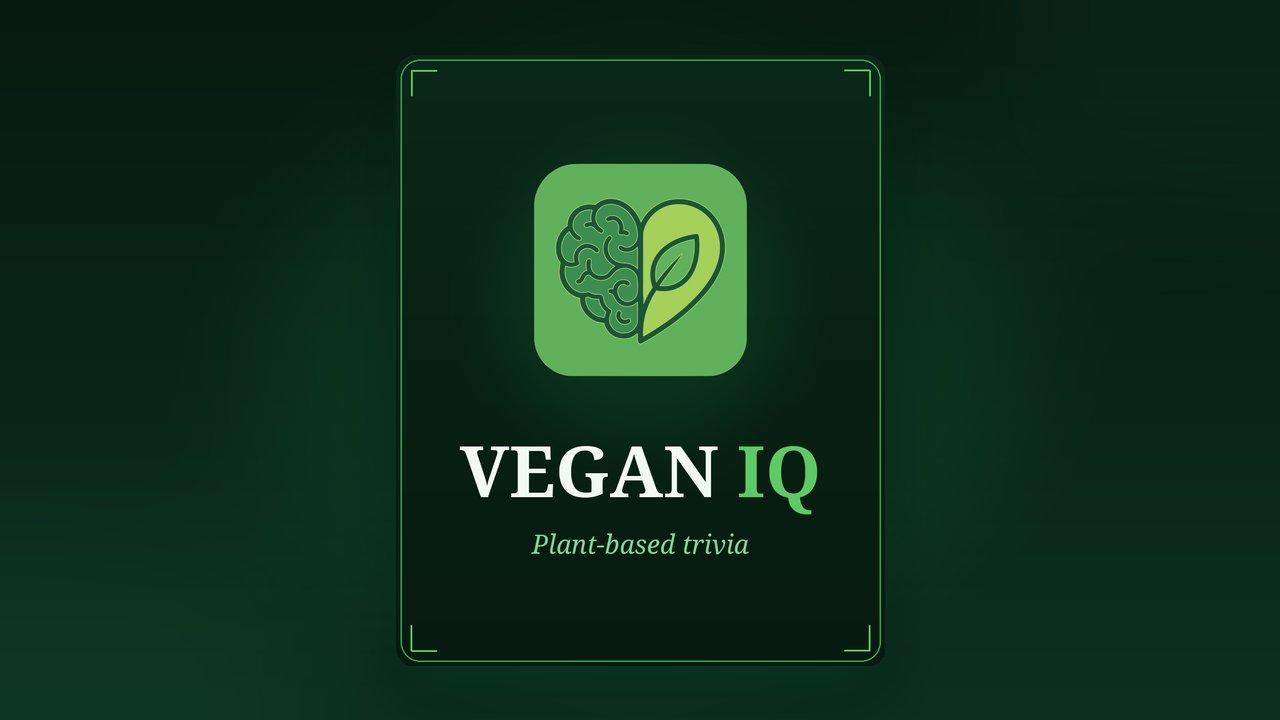
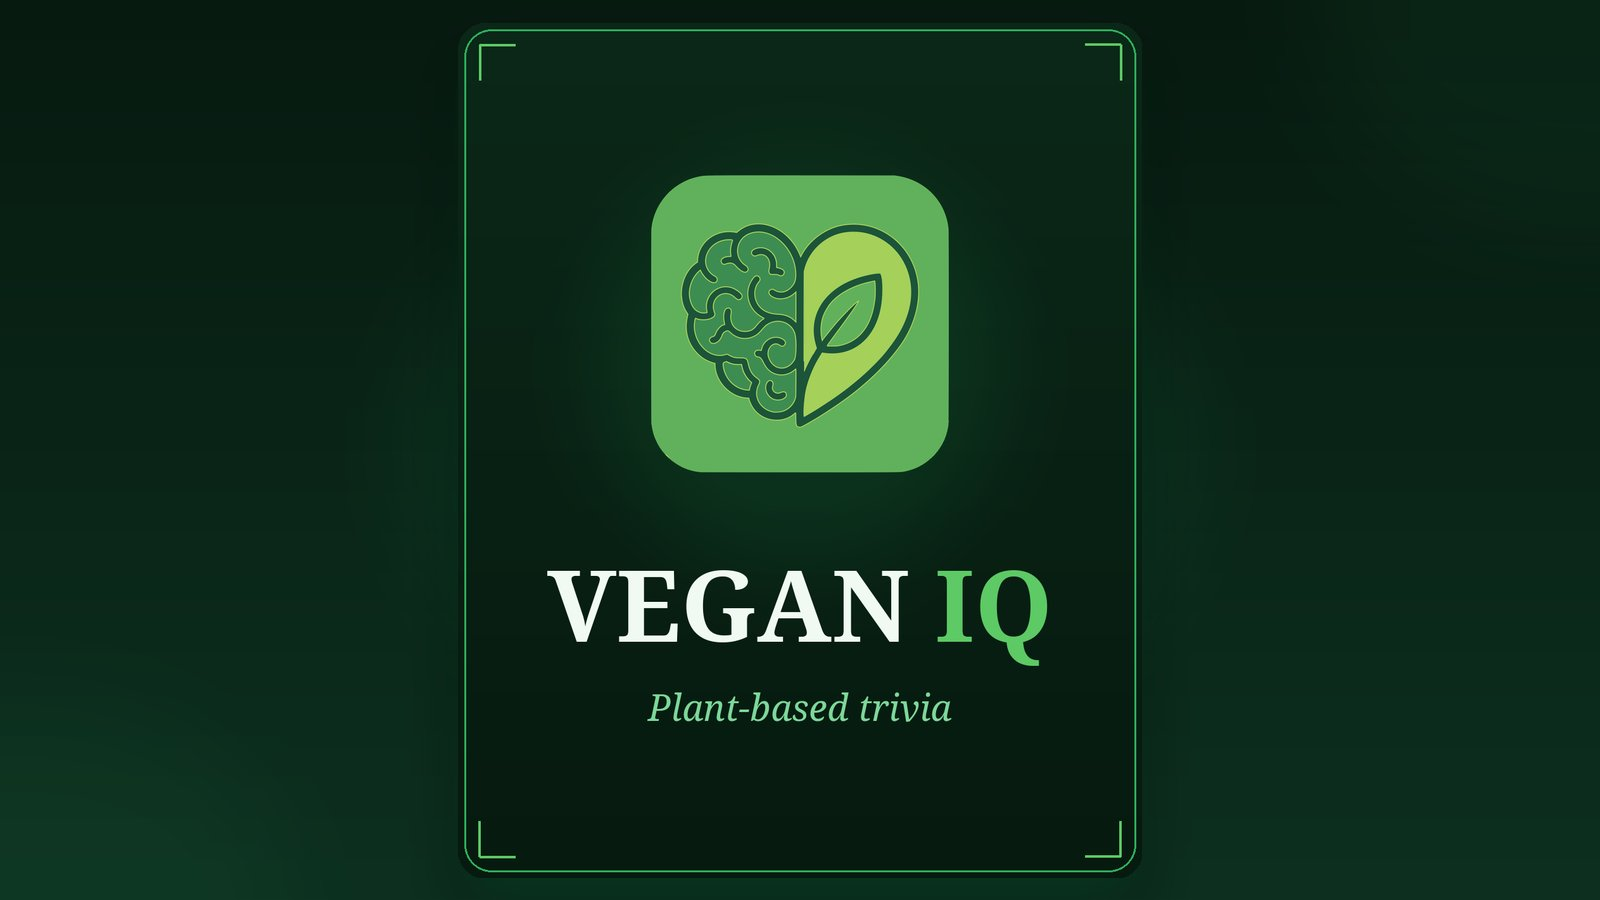
bento: 2x2 webshops layout + custom 1.2:1 reel crop + crisp vegan-iq re-render
New shape (drops Bauhaus): Webshops 2x2 feature / Smirk + Bloomword stacked right /
Barns 2x1 + Vegan IQ bottom. Grid gains md:row-span-2.

Webshops reel rebuilt at 1.2:1 (864x720) to match the 2x2 tile box with PER-SHOP crop
offsets (artisan's headline is left-anchored, coaching's box sits right of center, the
rest center) so no shop's hero text gets clipped by the cover fit.

Vegan IQ re-rendered at 1600x900 with the card at 95% height (text was landing on too
few yuv420p samples at 720p and read pixelated); webm 488KB, seam still 0.0000.

diff --git a/apps/web/src/components/portfolio/bento-grid.tsx b/apps/web/src/components/portfolio/bento-grid.tsx
@@ -34,12 +34,18 @@ const spanClass: Record<number, string> = {
   1: "md:col-span-1",
   2: "md:col-span-2",
 };
+const rowClass: Record<number, string> = {
+  1: "",
+  2: "md:row-span-2",
+};
 
 type Item = {
   name: string;
   tagline: string;
   color: keyof typeof titleColor;
   span: 1 | 2;
+  /** Grid row span (md+). 2 = a tall tile (e.g. the 2x2 Webshops feature). Default 1. */
+  rows?: 1 | 2;
   image: string;
   alt: string;
   href: string;
@@ -55,12 +61,13 @@ type Item = {
   vignette?: { webm: string; poster: string; webmDark?: string; posterDark?: string; mp4?: string; fit?: "contain" | "cover" };
 };
 
-// Six tiles, spans tiling the 3-column grid gap-free: (2,1) / (1,2) / (2,1) = three full rows.
-// Two live tiles: Webshops (the theming-morph reel, an opaque cover video: five completely
-// different storefronts from one platform) and Barns & Neutrons (transparent 3D vignette).
+// Five tiles over a 3x3 grid: Webshops is the 2x2 feature (the SQUARE 720x720 morph reel,
+// so the shops show real vertical), Smirk + Bloomword stack to its right, Barns (2x1) and
+// Vegan IQ close the bottom row. Auto-placement fills exactly: (r1-2,c1-2) / (r1,c3) /
+// (r2,c3) / (r3,c1-2) / (r3,c3).
 // Videos play on hover/focus on desktop and while on screen on no-hover (touch) devices.
 const items: Item[] = [
-  { name: "Webshops", tagline: "Custom storefronts we build and host. One platform, five completely different shops.", color: "emerald", span: 2, image: "/showcase/reels/webshops.jpg", alt: "Five differently themed demo storefronts built on the same platform", href: "/products/webshops", vignette: { webm: "/showcase/reels/webshops.webm", poster: "/showcase/reels/webshops.jpg", mp4: "/showcase/reels/webshops.mp4", fit: "cover" } },
+  { name: "Webshops", tagline: "Custom storefronts we build and host. One platform, five completely different shops.", color: "emerald", span: 2, rows: 2, image: "/showcase/reels/webshops.jpg", alt: "Five differently themed demo storefronts built on the same platform", href: "/products/webshops", vignette: { webm: "/showcase/reels/webshops.webm", poster: "/showcase/reels/webshops.jpg", mp4: "/showcase/reels/webshops.mp4", fit: "cover" } },
   { name: "Smirk Wallet", tagline: "Non-custodial browser wallet with social tipping.", color: "amber", span: 1, image: "/images/products/smirk-wallet.png", alt: "Smirk Wallet browser extension", href: "https://smirk.cash", external: true },
   // Transparent chroma-keyed vignette (the engine can't emit real alpha — BW_FLAT magenta key):
   // full-bloom tree at rest, hover retracts and regrows it. Palindrome loop, seam 0.0.
@@ -68,7 +75,6 @@ const items: Item[] = [
   // Single theme-independent asset: the INSET black silhouette stroke (sg_outline) sits ON the yellow letters, so one
   // baked alpha render reads on both light and dark tiles — no per-theme pair needed (a 3D->web pipeline win).
   { name: "Barns & Neutrons", tagline: "Cozy puzzle expedition across the real Table of Nuclides.", color: "amber", span: 2, image: "/images/products/barns-and-neutrons.svg", alt: "Barns & Neutrons, a game about the Table of Nuclides", href: "/products/barns-and-neutrons", vignette: { webm: "/showcase/vignettes/barns.webm", poster: "/showcase/vignettes/barns.png" } },
-  { name: "Bauhaus Echo", tagline: "Visual memory puzzle game.", color: "blue", span: 2, image: "/images/products/bauhaus-echo.png", alt: "Bauhaus Echo visual memory puzzle game", href: "/products/bauhaus-echo" },
   // Cover reel from the vegan-IQ social pipeline: logo panel at rest, card-flips to a real
   // quiz question (unanswered -> answered) on hover, flips back for a perfect loop seam.
   { name: "Vegan IQ", tagline: "Plant-based trivia game.", color: "green", span: 1, image: "/showcase/reels/vegan-iq.jpg", alt: "Vegan IQ plant-based trivia game", href: "/products/vegan-iq", vignette: { webm: "/showcase/reels/vegan-iq.webm", poster: "/showcase/reels/vegan-iq.jpg", mp4: "/showcase/reels/vegan-iq.mp4", fit: "cover" } },
@@ -107,7 +113,7 @@ function BentoCard({ item, delay }: { item: Item; delay: number }) {
     </Card>
   );
 
-  const className = `bento-item group/tile ${spanClass[item.span]}${
+  const className = `bento-item group/tile ${spanClass[item.span]} ${rowClass[item.rows ?? 1]}${
     feature
       ? " relative z-0 transition-transform duration-500 ease-out will-change-transform motion-safe:hover:scale-[1.05] motion-safe:hover:z-30 focus-visible:z-30"
       : ""